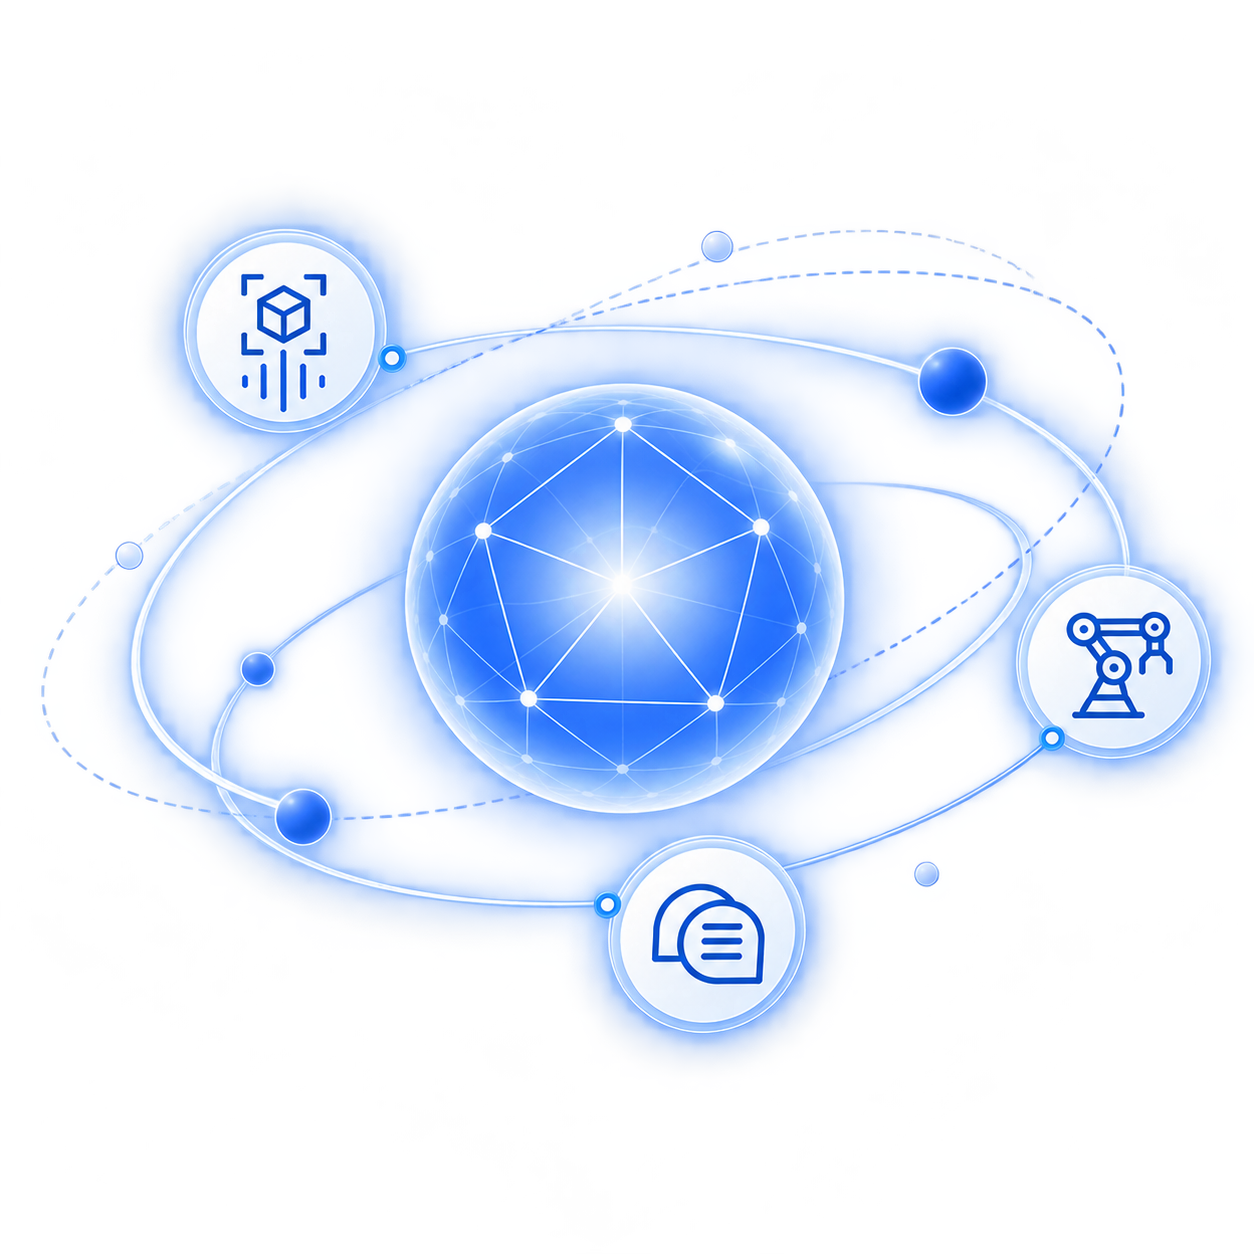
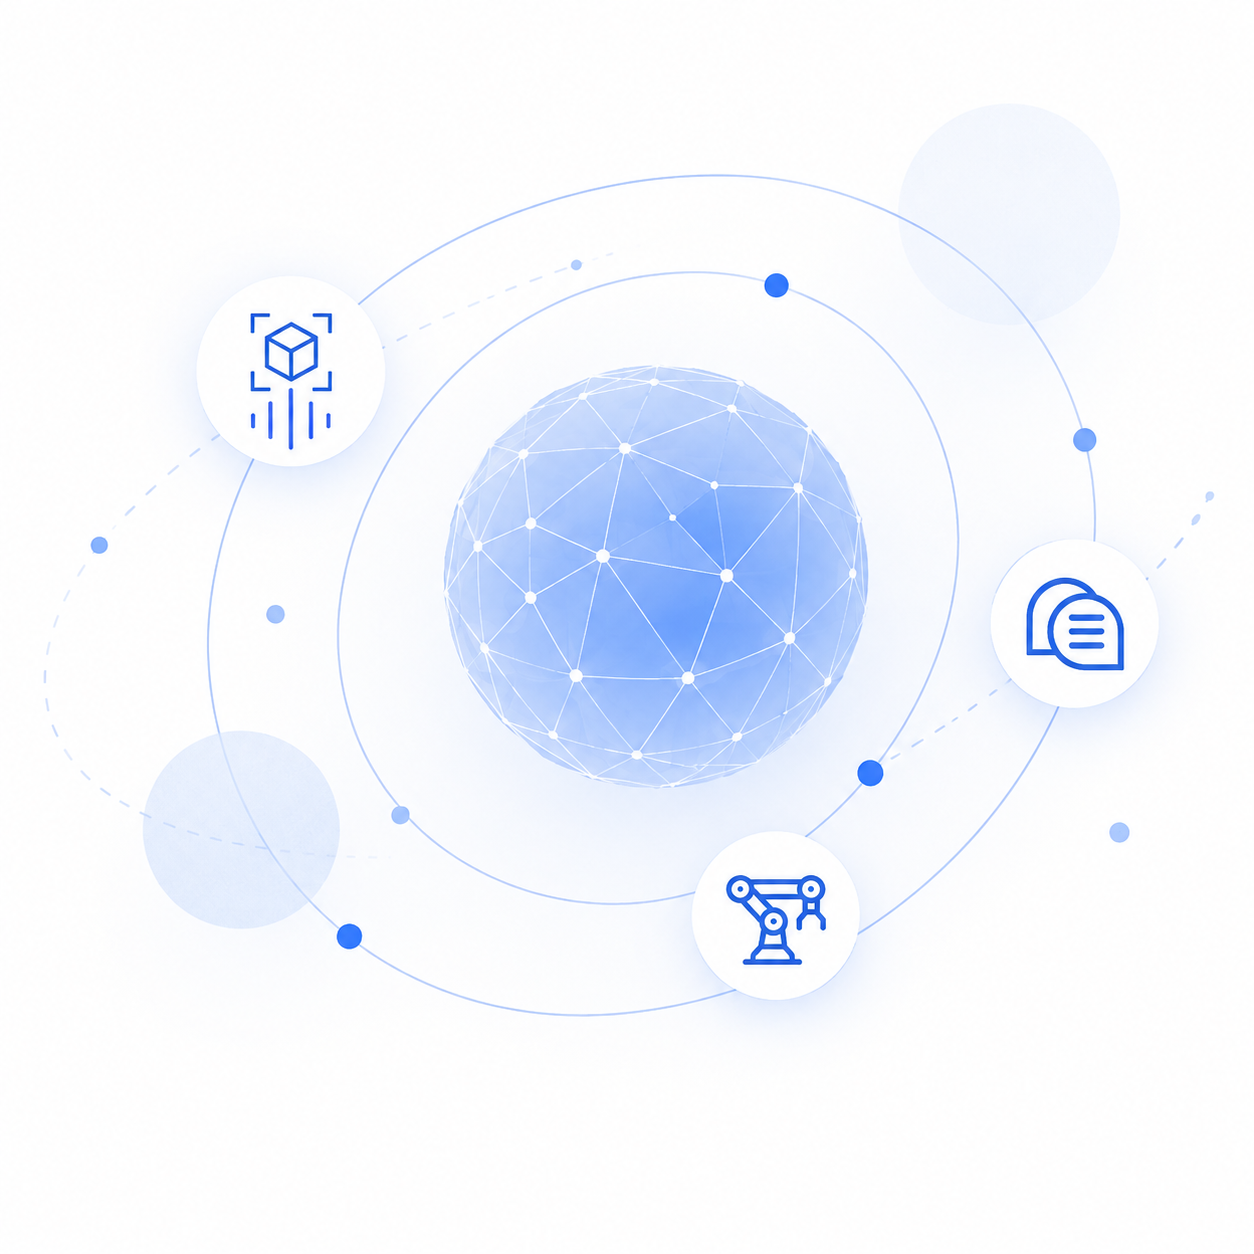
update projects and gallery ui

diff --git a/funding.html b/funding.html
@@ -8,46 +8,37 @@ permalink: funding.html
 <style>
 .projects-page {
   background:
-    radial-gradient(circle at 78% 12%, rgba(43, 111, 232, 0.11), transparent 30%),
+    radial-gradient(circle at 78% 12%, rgba(43, 111, 232, 0.09), transparent 32%),
     linear-gradient(180deg, #ffffff 0%, #f8fbff 100%);
   color: #1f2e4a;
   font-family: var(--site-font-family) !important;
-  padding: 38px 0 112px;
+  padding: 42px 0 88px;
 }
 
 .projects-hero {
   align-items: center;
   display: grid;
-  gap: 34px;
-  grid-template-columns: minmax(0, 1.05fr) minmax(320px, 0.95fr);
-  margin-bottom: 22px;
-}
-
-.projects-eyebrow {
-  color: #2b6fe8;
-  font-family: var(--site-display-font-family) !important;
-  font-size: 0.78rem;
-  font-weight: 850;
-  letter-spacing: 0.06em;
-  margin: 0 0 12px;
-  text-transform: uppercase;
+  gap: 46px;
+  grid-template-columns: minmax(560px, 1.1fr) minmax(340px, 0.9fr);
+  margin-bottom: 28px;
 }
 
 .projects-hero-title {
   color: #1b2944;
   font-family: var(--site-display-font-family) !important;
-  font-size: clamp(2.65rem, 4.9vw, 4.5rem);
+  font-size: clamp(3.05rem, 4.35vw, 4.12rem);
   font-weight: 860;
-  letter-spacing: -0.01em;
-  line-height: 0.98;
-  margin: 0 0 18px;
+  letter-spacing: -0.025em;
+  line-height: 1.02;
+  margin: 0 0 22px;
+  white-space: nowrap;
 }
 
 .projects-hero-rule {
   align-items: center;
   display: flex;
-  margin: 0 0 24px;
-  max-width: 380px;
+  margin: 0 0 30px;
+  max-width: 370px;
 }
 
 .projects-hero-rule::before,
@@ -71,24 +62,24 @@ permalink: funding.html
 .projects-hero-lead {
   color: #1f2e4a;
   font-family: var(--site-display-font-family) !important;
-  font-size: 1.24rem;
+  font-size: 1.27rem;
   font-weight: 780;
   line-height: 1.36;
-  margin: 0 0 16px;
-  max-width: 620px;
+  margin: 0 0 18px;
+  max-width: 650px;
 }
 
 .projects-hero-copy {
   color: #52637a;
-  font-size: 0.96rem;
+  font-size: 0.98rem;
   font-weight: 500;
-  line-height: 1.58;
-  margin: 0 0 12px;
-  max-width: 600px;
+  line-height: 1.62;
+  margin: 0 0 13px;
+  max-width: 640px;
 }
 
 .projects-orbit {
-  min-height: 300px;
+  min-height: 320px;
   position: relative;
 }
 
@@ -96,7 +87,7 @@ permalink: funding.html
   display: block;
   height: auto;
   margin-left: auto;
-  max-width: 520px;
+  max-width: 545px;
   width: 100%;
 }
 
@@ -113,6 +104,8 @@ permalink: funding.html
   display: grid;
   gap: 26px;
   grid-template-columns: repeat(2, minmax(0, 1fr));
+  margin-bottom: 34px;
+  position: relative;
 }
 
 .projects-panel {
@@ -121,7 +114,8 @@ permalink: funding.html
   border-radius: 12px;
   box-shadow: 0 10px 28px rgba(38, 63, 100, 0.055);
   overflow: hidden;
-  transition: border-color 0.28s ease, box-shadow 0.28s ease, transform 0.3s ease;
+  transform-origin: top center;
+  transition: border-color 0.28s ease, box-shadow 0.32s ease, opacity 0.24s ease, transform 0.32s ease;
 }
 
 .projects-panel-summary:hover,
@@ -146,12 +140,16 @@ permalink: funding.html
 }
 
 .projects-board.has-expanded .projects-panel:not(.is-expanded) {
-  display: none;
+  opacity: 0;
+  pointer-events: none;
+  position: absolute;
+  transform: translateY(10px) scale(0.985);
 }
 
 .projects-panel.is-expanded {
   border-color: rgba(43, 111, 232, 0.26);
   box-shadow: 0 14px 32px rgba(38, 63, 100, 0.075);
+  transform: translateY(-2px);
 }
 
 .projects-panel-summary {
@@ -256,7 +254,7 @@ permalink: funding.html
   display: flex;
   flex-wrap: wrap;
   gap: 12px;
-  padding: 4px 34px 16px;
+  padding: 2px 34px 12px;
 }
 
 .projects-filter {
@@ -299,9 +297,9 @@ button.projects-filter {
 .projects-past-logos {
   align-items: center;
   display: grid;
-  gap: 24px 34px;
+  gap: 22px 34px;
   grid-template-columns: repeat(5, minmax(0, 1fr));
-  padding: 10px 34px 34px;
+  padding: 6px 34px 28px;
 }
 
 .projects-past-logo {
@@ -329,15 +327,20 @@ button.projects-filter {
   opacity: 0;
   overflow: hidden;
   padding: 0 26px;
-  transform: translateY(-8px);
-  transition: max-height 0.5s ease, opacity 0.28s ease, padding 0.36s ease, transform 0.36s ease, border-color 0.28s ease;
+  transform: translateY(-10px);
+  transition:
+    max-height 0.72s cubic-bezier(0.22, 1, 0.36, 1),
+    opacity 0.28s ease,
+    padding 0.42s cubic-bezier(0.22, 1, 0.36, 1),
+    transform 0.42s cubic-bezier(0.22, 1, 0.36, 1),
+    border-color 0.28s ease;
 }
 
 .projects-panel.is-expanded .projects-panel-body {
   border-top-color: rgba(214, 224, 238, 0.75);
   max-height: 2600px;
   opacity: 1;
-  padding: 24px 26px 28px;
+  padding: 22px 26px 26px;
   transform: translateY(0);
 }
 
@@ -397,6 +400,10 @@ button.projects-filter {
     grid-template-columns: 1fr;
   }
 
+  .projects-hero-title {
+    white-space: normal;
+  }
+
   .projects-orbit {
     min-height: 300px;
   }
@@ -424,6 +431,7 @@ button.projects-filter {
   .projects-hero-title {
     font-size: 2.34rem;
     line-height: 1.02;
+    white-space: normal;
   }
 
   .projects-hero-rule {
@@ -588,7 +596,6 @@ button.projects-filter {
     <div class="large-12 columns">
       <section class="projects-hero">
         <div>
-          <p class="projects-eyebrow">Projects</p>
           <h1 class="projects-hero-title">Agentic AI to Physical AI</h1>
           <div class="projects-hero-rule"><span></span></div>
           <p class="projects-hero-lead">Multimodal agentic AI and world models, extending into physical AI</p>

diff --git a/gallery.html b/gallery.html
@@ -9,11 +9,11 @@ count_year_min: 2023
 <style>
 .gallery-page {
   background:
-    radial-gradient(circle at 80% 8%, rgba(43, 111, 232, 0.09), transparent 30%),
+    radial-gradient(circle at 80% 8%, rgba(43, 111, 232, 0.055), transparent 28%),
     linear-gradient(180deg, #ffffff 0%, #f8fbff 100%);
   color: #1f2e4a;
   font-family: var(--site-font-family) !important;
-  padding: 56px 0 104px;
+  padding: 50px 0 108px;
 }
 
 .gallery-page .row {
@@ -21,11 +21,8 @@ count_year_min: 2023
 }
 
 .gallery-hero {
-  align-items: center;
-  display: grid;
-  gap: 48px;
-  grid-template-columns: minmax(0, 0.95fr) minmax(360px, 1.05fr);
-  margin-bottom: 30px;
+  margin-bottom: 34px;
+  max-width: 720px;
 }
 
 .gallery-eyebrow {
@@ -110,18 +107,6 @@ count_year_min: 2023
   color: #fff;
 }
 
-.gallery-orbit {
-  min-height: 300px;
-}
-
-.gallery-orbit svg {
-  display: block;
-  height: auto;
-  margin-left: auto;
-  max-width: 520px;
-  width: 100%;
-}
-
 .gallery-grid {
   display: grid;
   gap: 14px;
@@ -201,11 +186,7 @@ count_year_min: 2023
 
 @media only screen and (max-width: 1024px) {
   .gallery-hero {
-    grid-template-columns: 1fr;
-  }
-
-  .gallery-orbit {
-    display: none;
+    max-width: 680px;
   }
 }
 
@@ -287,42 +268,6 @@ count_year_min: 2023
           </div>
         </div>
 
-        <div class="gallery-orbit" aria-hidden="true">
-          <svg viewBox="0 0 560 320" role="img">
-            <defs>
-              <radialGradient id="galleryOrb" cx="50%" cy="45%" r="55%">
-                <stop offset="0%" stop-color="#ffffff"/>
-                <stop offset="55%" stop-color="#d6e4ff"/>
-                <stop offset="100%" stop-color="#8ab1ff"/>
-              </radialGradient>
-              <filter id="galleryShadow" x="-30%" y="-30%" width="160%" height="160%">
-                <feDropShadow dx="0" dy="16" stdDeviation="20" flood-color="#2b6fe8" flood-opacity="0.12"/>
-              </filter>
-            </defs>
-            <circle cx="438" cy="62" r="36" fill="#dce9ff" opacity="0.76"/>
-            <circle cx="150" cy="190" r="24" fill="#dce9ff" opacity="0.7"/>
-            <ellipse cx="314" cy="168" rx="218" ry="84" fill="none" stroke="#9dbdff" stroke-width="1.5" opacity="0.46"/>
-            <ellipse cx="334" cy="165" rx="126" ry="126" fill="none" stroke="#9dbdff" stroke-width="1.3" opacity="0.35"/>
-            <path d="M184 142 C260 56, 444 28, 528 84" fill="none" stroke="#9dbdff" stroke-dasharray="6 10" stroke-width="1.5" opacity="0.52"/>
-            <circle cx="306" cy="172" r="76" fill="url(#galleryOrb)" filter="url(#galleryShadow)" opacity="0.36"/>
-            <g fill="#ffffff" stroke="#2b6fe8" stroke-width="2" filter="url(#galleryShadow)">
-              <circle cx="246" cy="84" r="34"/>
-              <circle cx="392" cy="156" r="34"/>
-            </g>
-            <g stroke="#2b6fe8" stroke-width="3" stroke-linecap="round" stroke-linejoin="round" fill="none">
-              <path d="M232 84 h9 l5 -8 l9 16 l5 -8 h12"/>
-              <rect x="377" y="142" width="30" height="26" rx="3"/>
-              <path d="M381 164 l8 -8 l7 6 l5 -5 l6 7"/>
-              <circle cx="386" cy="150" r="2"/>
-            </g>
-            <g fill="#2b6fe8">
-              <circle cx="492" cy="130" r="5"/>
-              <circle cx="272" cy="46" r="4"/>
-              <circle cx="170" cy="238" r="5"/>
-              <circle cx="360" cy="268" r="4"/>
-            </g>
-          </svg>
-        </div>
       </section>
 
       <section class="gallery-grid" aria-label="PI Lab gallery">
